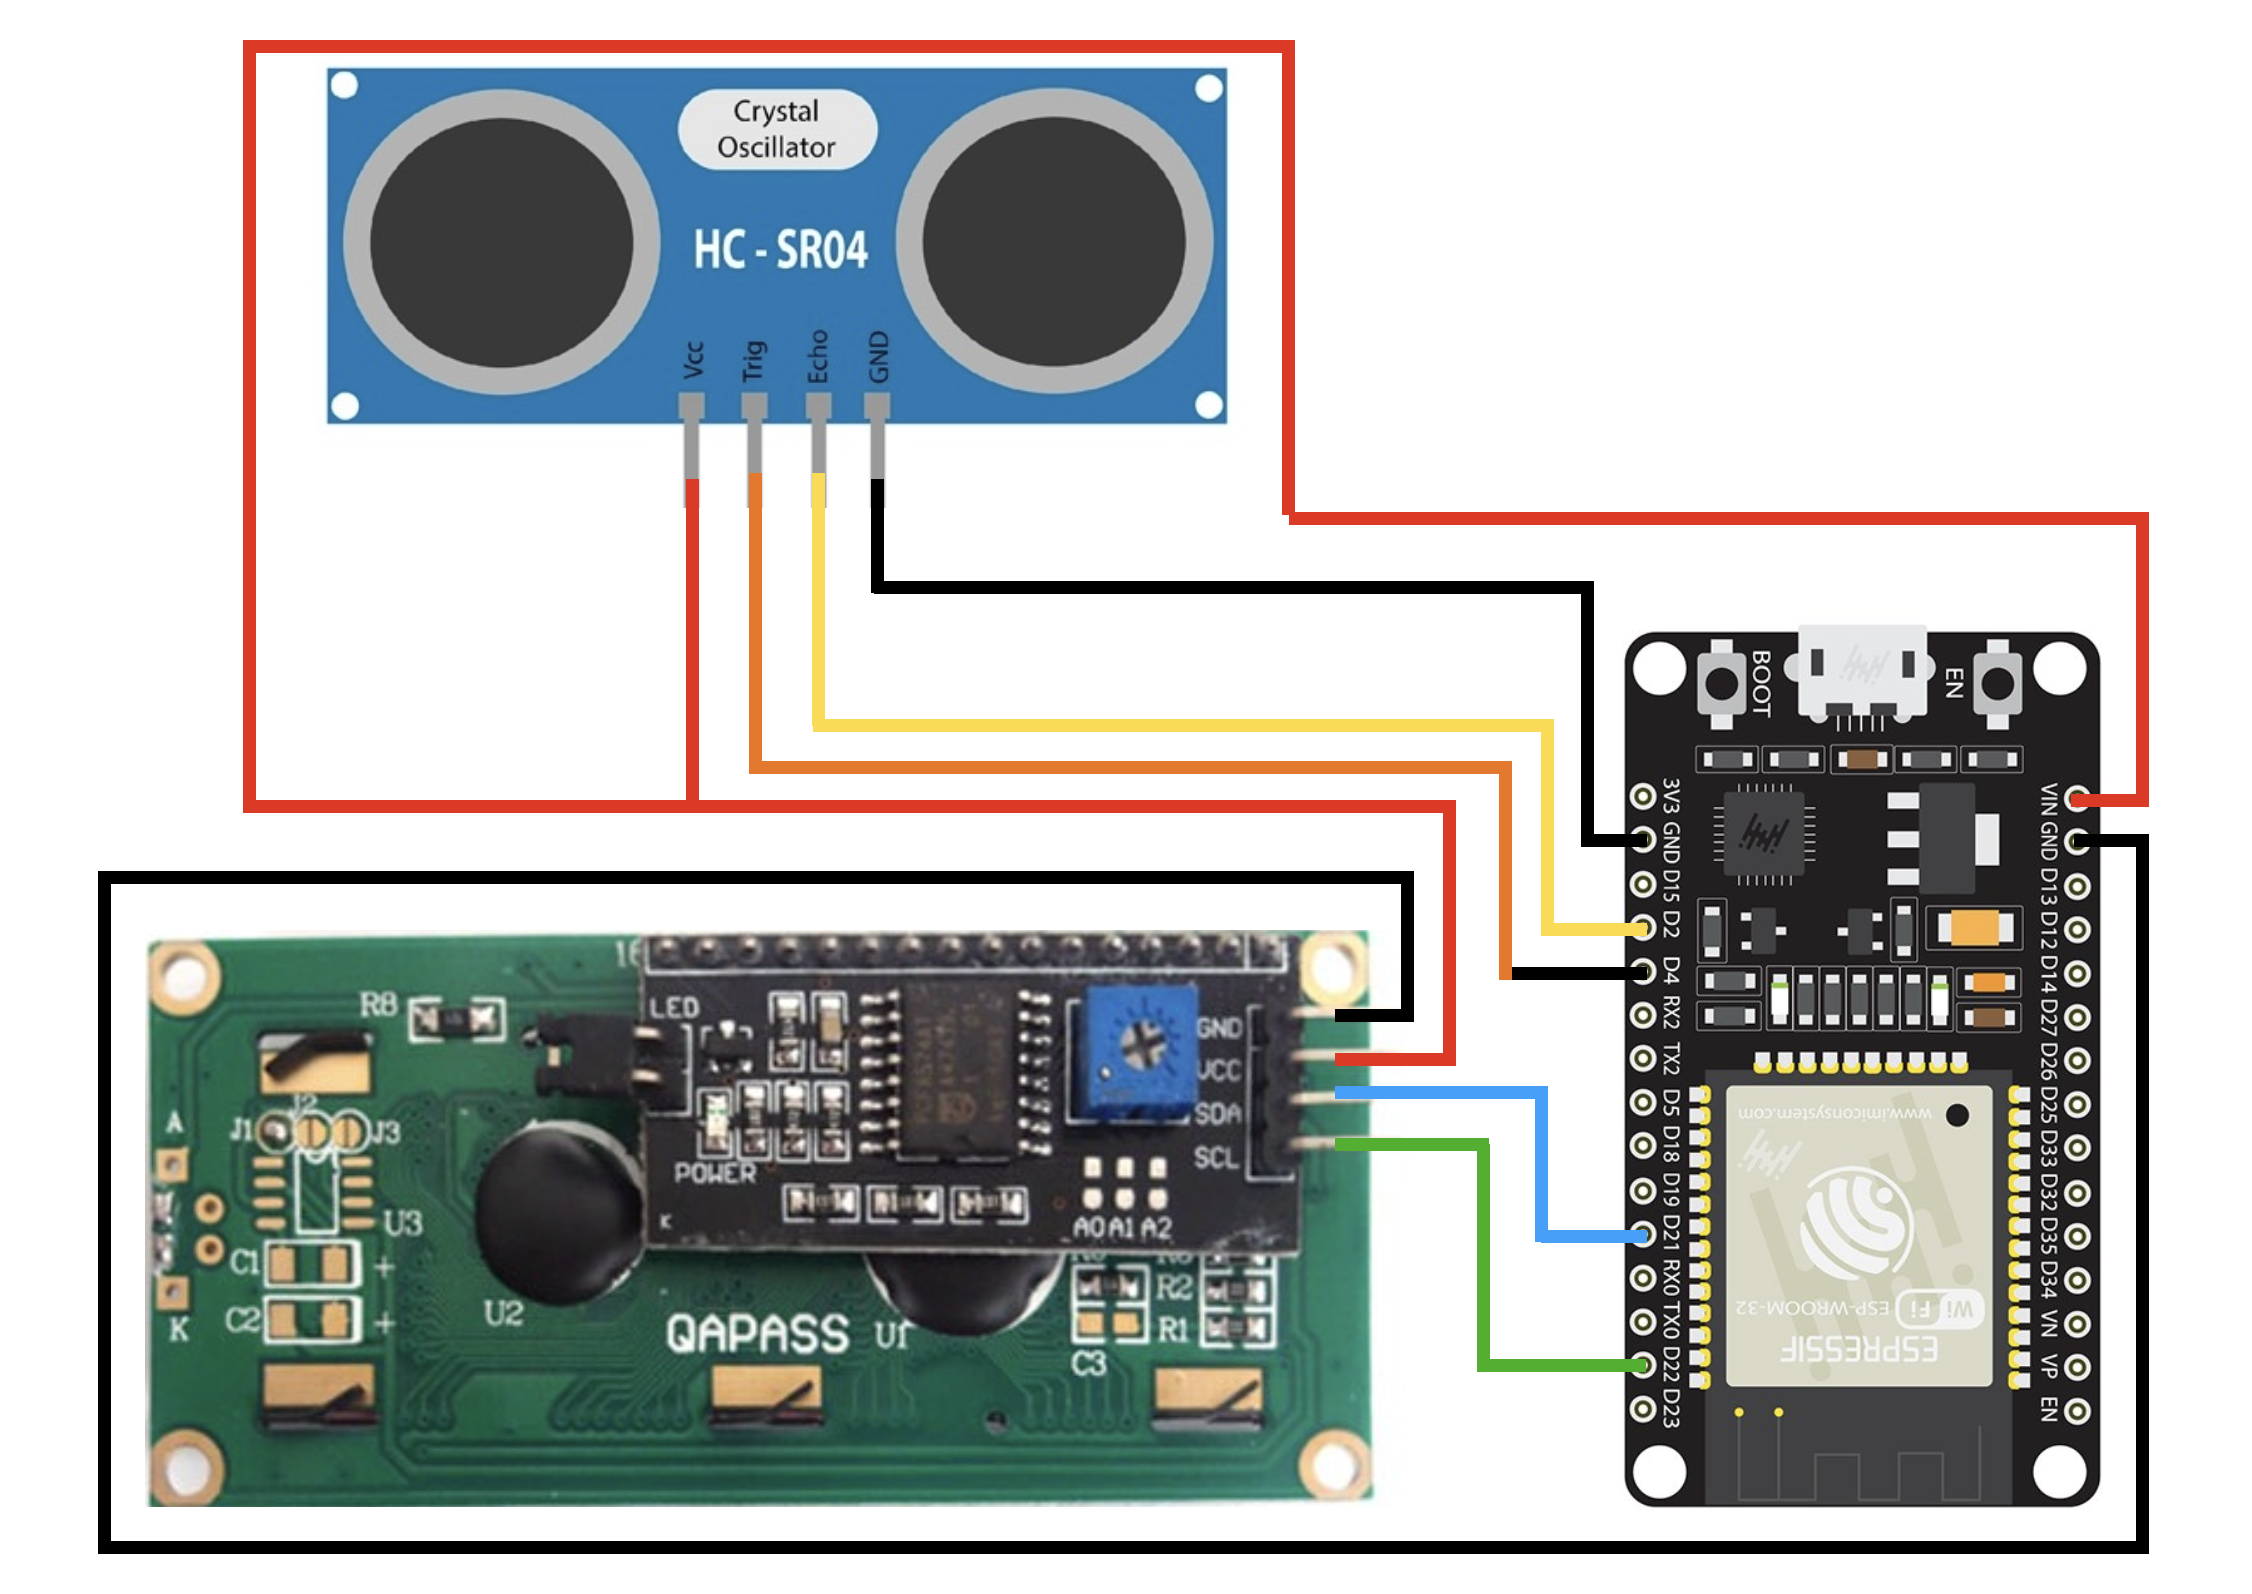
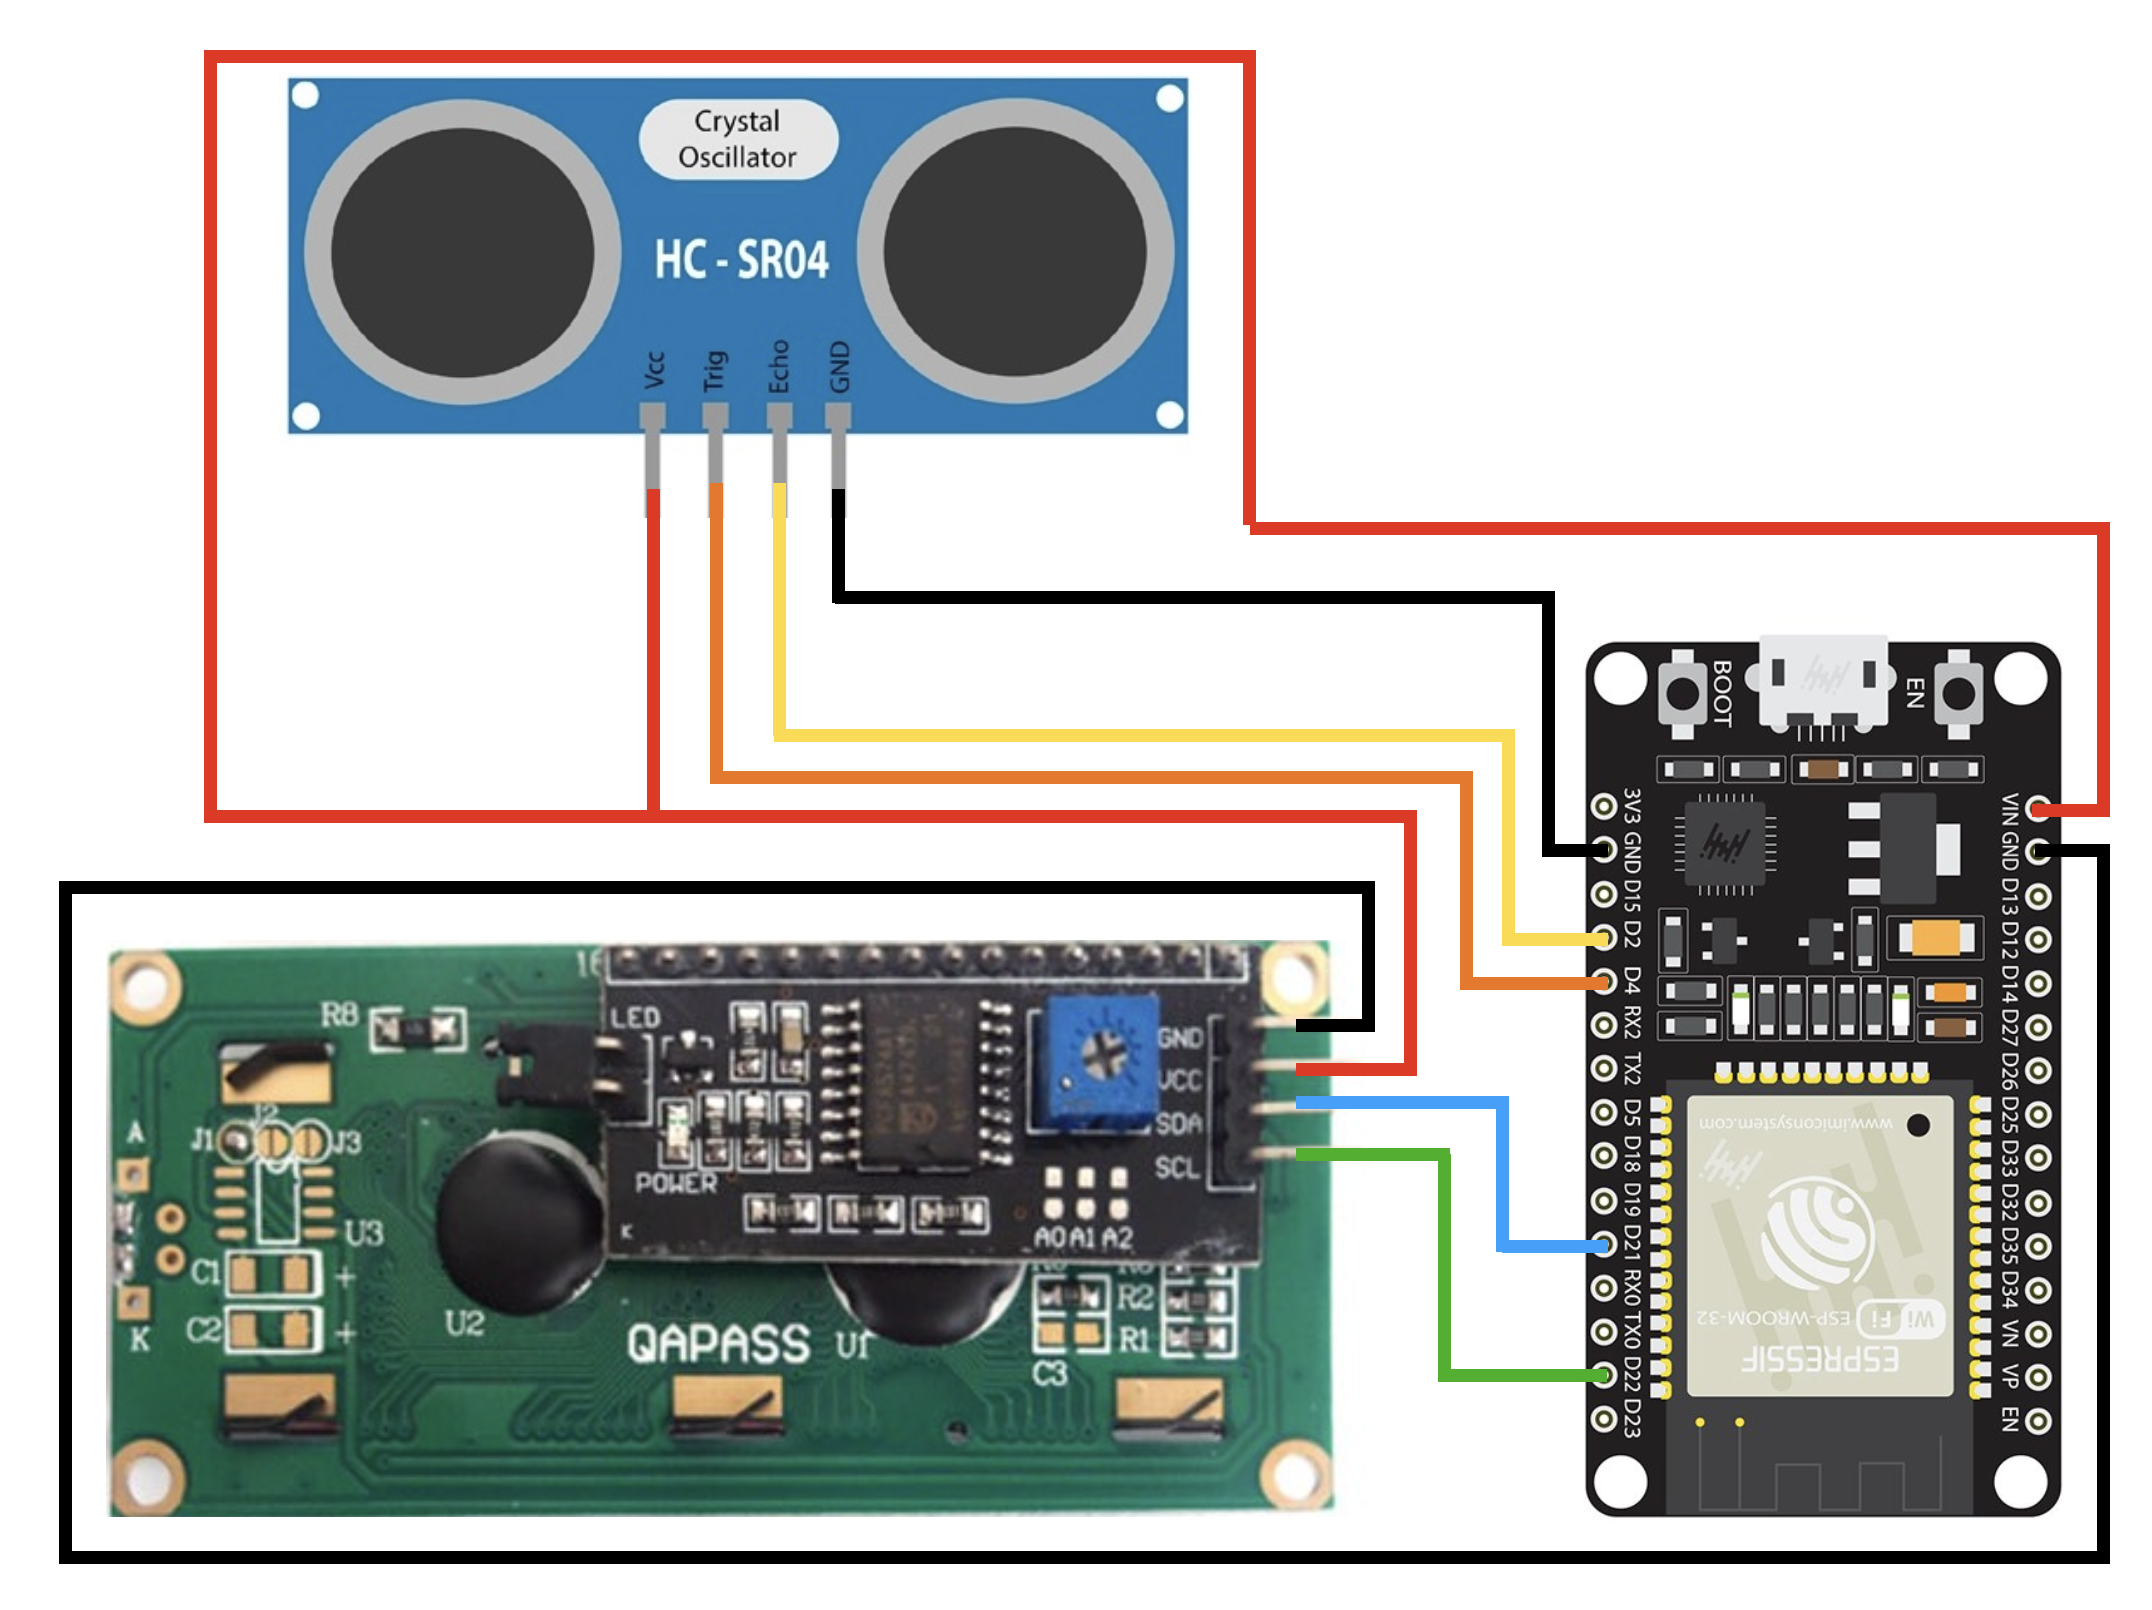
added gif to readme

Changed region(s): [[0.0, 0.0, 0.9963, 0.9837], [0.4047, 0.1844, 0.4359, 0.2152]]

diff --git a/README.md b/README.md
@@ -1,4 +1,5 @@
 # Overview
+![LCD Screen](https://raw.githubusercontent.com/agadin/Microtome_rev_counter/refs/heads/main/img/microtome_counter_screen.gif)
 This project uses an HC-SR04 ultrasonic sensor to count the number of times a microtome blade passes by and calculates the speed of the blade. The results are displayed on both the serial monitor and an LCD screen.
 
 * [Introduction](#introduction)
@@ -14,6 +15,18 @@ The microtome is a device used to cut thin slices of material, typically for mic
 
 `microtome_speed.ino` is the main file that contains the code for the project. The code is written in C++ and is designed to be run on an ESP32 or arduino capable device. The code reads the distance from the ultrasonic sensor and calculates the speed of the blade based on the time between each pass. The results are displayed on both the serial monitor and an LCD screen.
 
+## Features
+* **Distance Measurement:** Uses an HC-SR04 ultrasonic sensor to measure the distance of the microtome blade. 
+* **Speed Calculation:** Calculates the speed of the blade based on the time between passes. 
+* **Pass Counting:** Counts the number of times the blade passes by the sensor. 
+* **Total Distance Tracking:** Tracks the total distance traveled by the blade.
+
+* **CD Display:** Displays the pass count, speed, and total distance on an LCD screen. 
+* **Motivational Messages:** Displays random motivational messages after a certain number of passes. 
+* **Reset Button:** Allows users to reset the pass count and total distance. 
+* **Celebration Mode:** A fun mode that displays a congratulatory message when a button is pressed.
+
+
 # Installation
 **To run this project, you will need the following hardware:**
 * ESP32 Wroom
@@ -24,18 +37,24 @@ The microtome is a device used to cut thin slices of material, typically for mic
 * [LCD-I2C](https://github.com/hasenradball/LCD-I2C)
 
 ## Circuit Diagram
-![Circuit Diagram](
+![Circuit Diagram](https://raw.githubusercontent.com/agadin/Microtome_rev_counter/refs/heads/main/img/circuit_diagram.png)
+
 **HC-SR04 Ultrasonic Sensor:**  
 * VCC to 5V 
 * GND to GND 
-* Trig to digital pin 9 
-* Echo to digital pin 10
+* Trig to digital pin D4 
+* Echo to digital pin D2
 
 **LCD Screen:**  
 * Connect the LCD screen to the I2C pins on the D1_mini (SDA and SCL).
 * VCC to 5V
 * GND to GND
 
+**Buttons:**
+* Button 1: D5
+* Button 2: D6
+
+Note: The buttons are optional and can be used to reset the pass count and total distance or to enter celebration mode. These are connected to a digital in and ground (GND) on the ESP32.
 
 **To install the code onto your ESP32, follow these steps:**
 1. Clone the repository
@@ -46,16 +65,14 @@ The microtome is a device used to cut thin slices of material, typically for mic
 6. Upload the code to the ESP32 by clicking the upload button in the Arduino IDE
 7. Open the serial monitor to view the results and ensure the LCD screen is displaying the results as well.
 
-
-
-
 # Usage
-To use this project, connect the hardware as shown in the circuit diagram section above. Upload the code to the D1_mini by using the Arduino IDE (or another of your choice) and open the serial monitor to view the results. The LCD screen will also display the results.
+To use this project, connect the hardware as shown in the circuit diagram section above. Upload the code to the ESP32 Wroom by using the Arduino IDE (or another of your choice) and open the serial monitor to view the results. The LCD screen will also display the results.
 
 ### Additional Information
-The blade must travel from at least 20 cm away from the sensor to 15 cm or closer to be counted as a pass.
-The speed is calculated based on the time taken for the blade to travel between these two points.
+* The ultrasonic sensor is used to detect the distance between the sensor and the blade. The sensor is placed at the top of the blade's path and measures the distance to the blade as it passes by accessing the periodic nature of the back and forth motion of teh microtome. The speed is calculated based on the time taken for the blade to travel between these two points.
 
+### Changing motivational quotes
+The motivational quotes are stored in the `messages` array in the `microtome_counter.ino` file. You can change the quotes by modifying the strings in this array. These messages are displayed after achieving a random amount of passes by the blade.  
 
 # Contributing
 Contributions are what make the open-source community such an amazing place to learn, inspire, and create. Any contributions you make are **greatly appreciated**.
